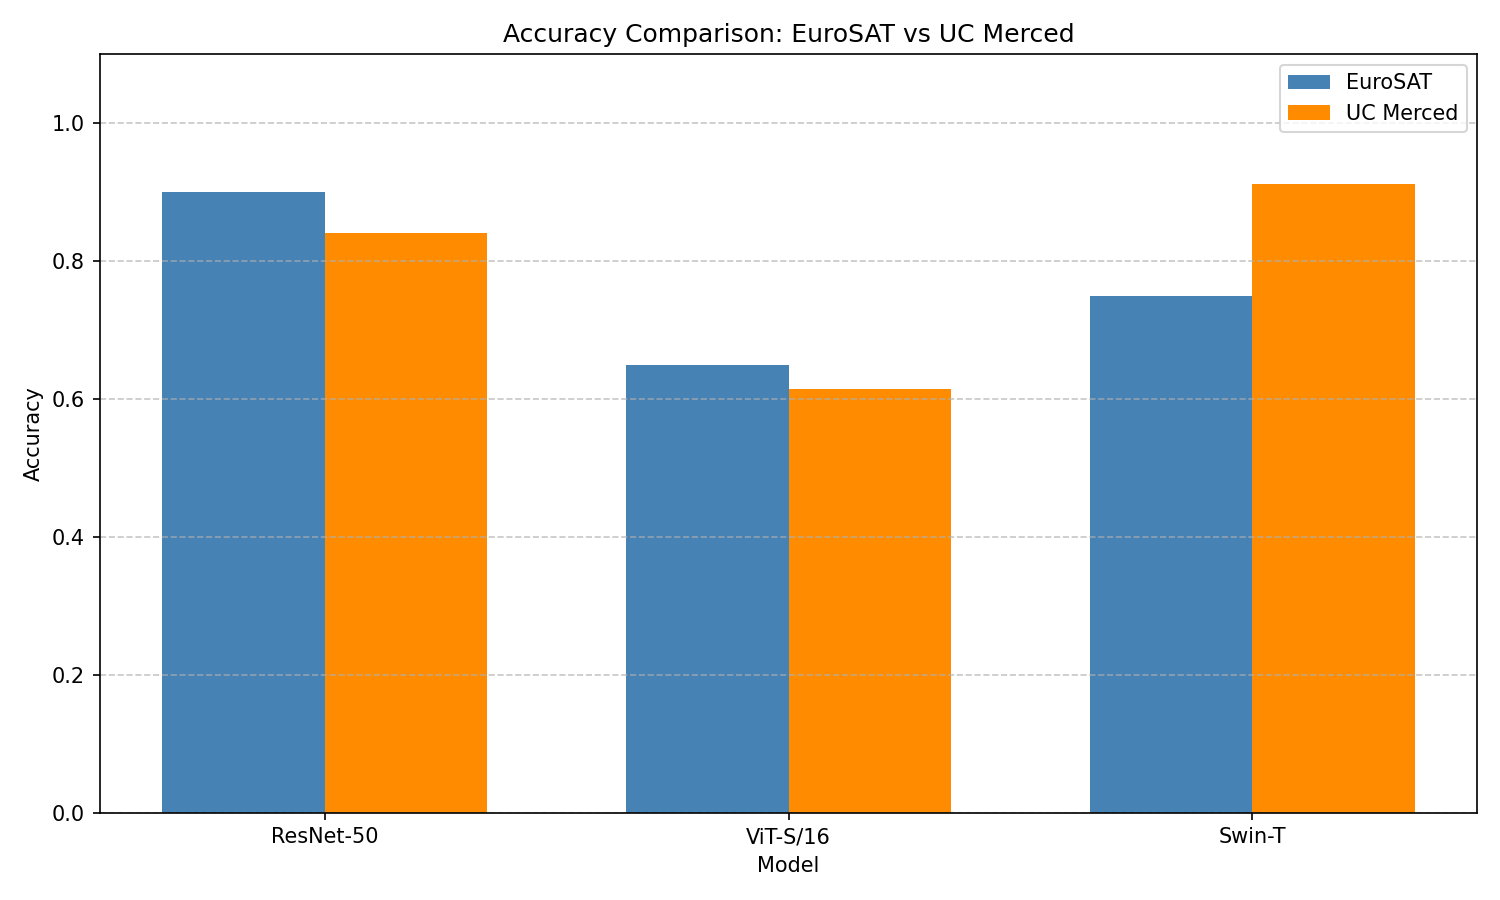
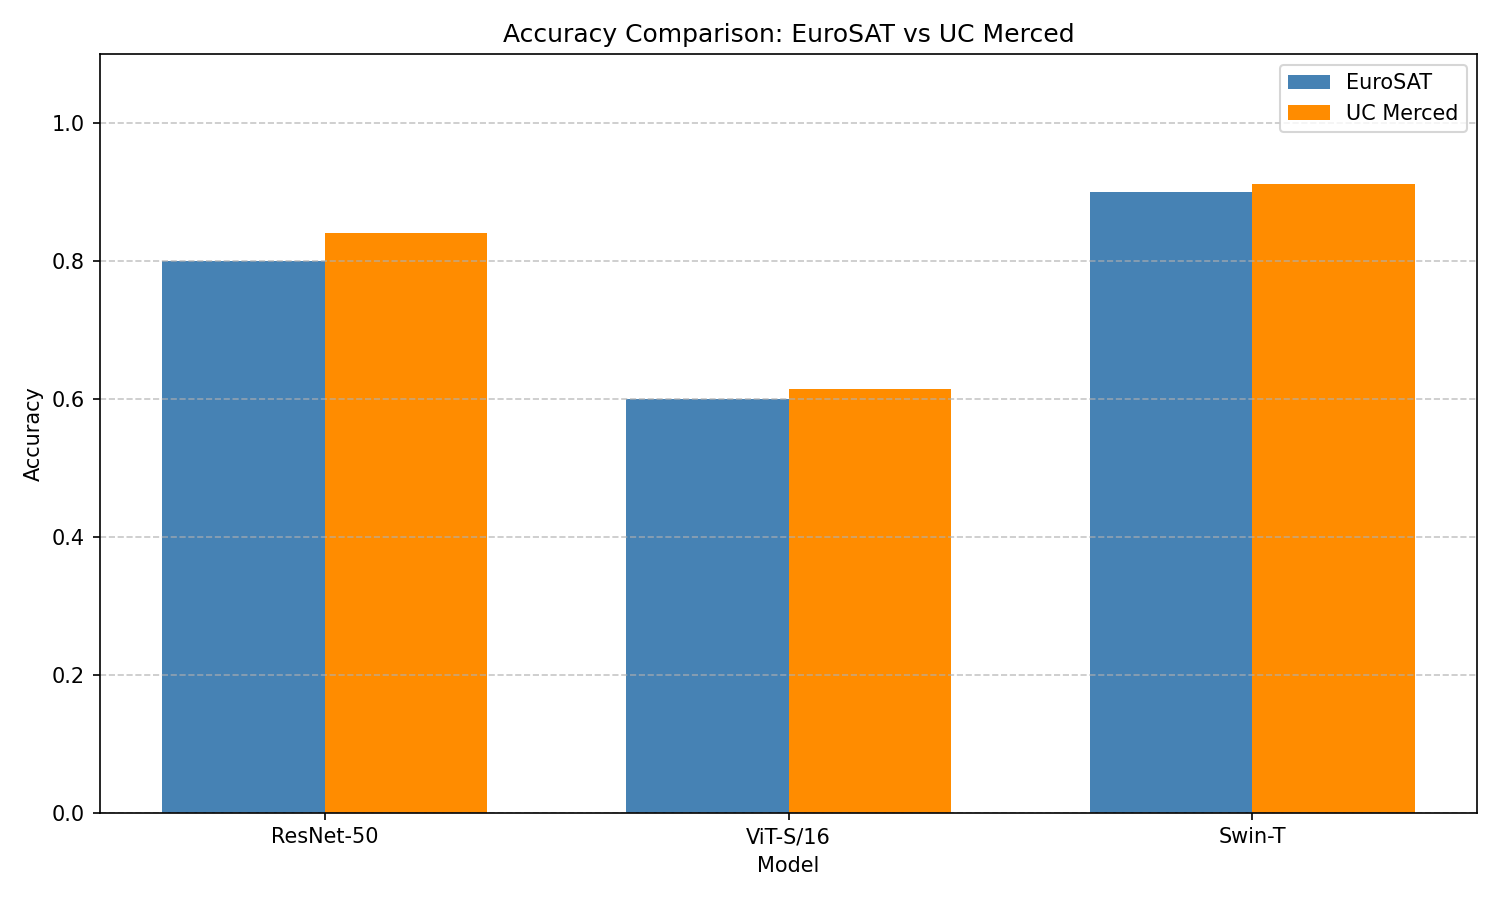
Fix EuroSAT vs UC Merced comparison graph with updated values

Changed region(s): [[0.7053, 0.1867, 0.8587, 0.3422], [0.092, 0.1867, 0.2147, 0.3111], [0.3987, 0.4044, 0.552, 0.4667]]

diff --git a/visualize_ucmerced.py b/visualize_ucmerced.py
@@ -57,7 +57,7 @@ print("Computation time graph saved.")
 
 # Graph 3: EuroSAT vs UC Merced Accuracy Comparison
 fig, ax = plt.subplots(figsize=(10, 6))
-eurosat_acc = [0.90, 0.65, 0.75]  # ResNet, ViT, Swin
+eurosat_acc = [0.80, 0.60, 0.90]  # ResNet, ViT, Swin
 ucmerced_acc = accuracy
 
 x = np.arange(len(models))
